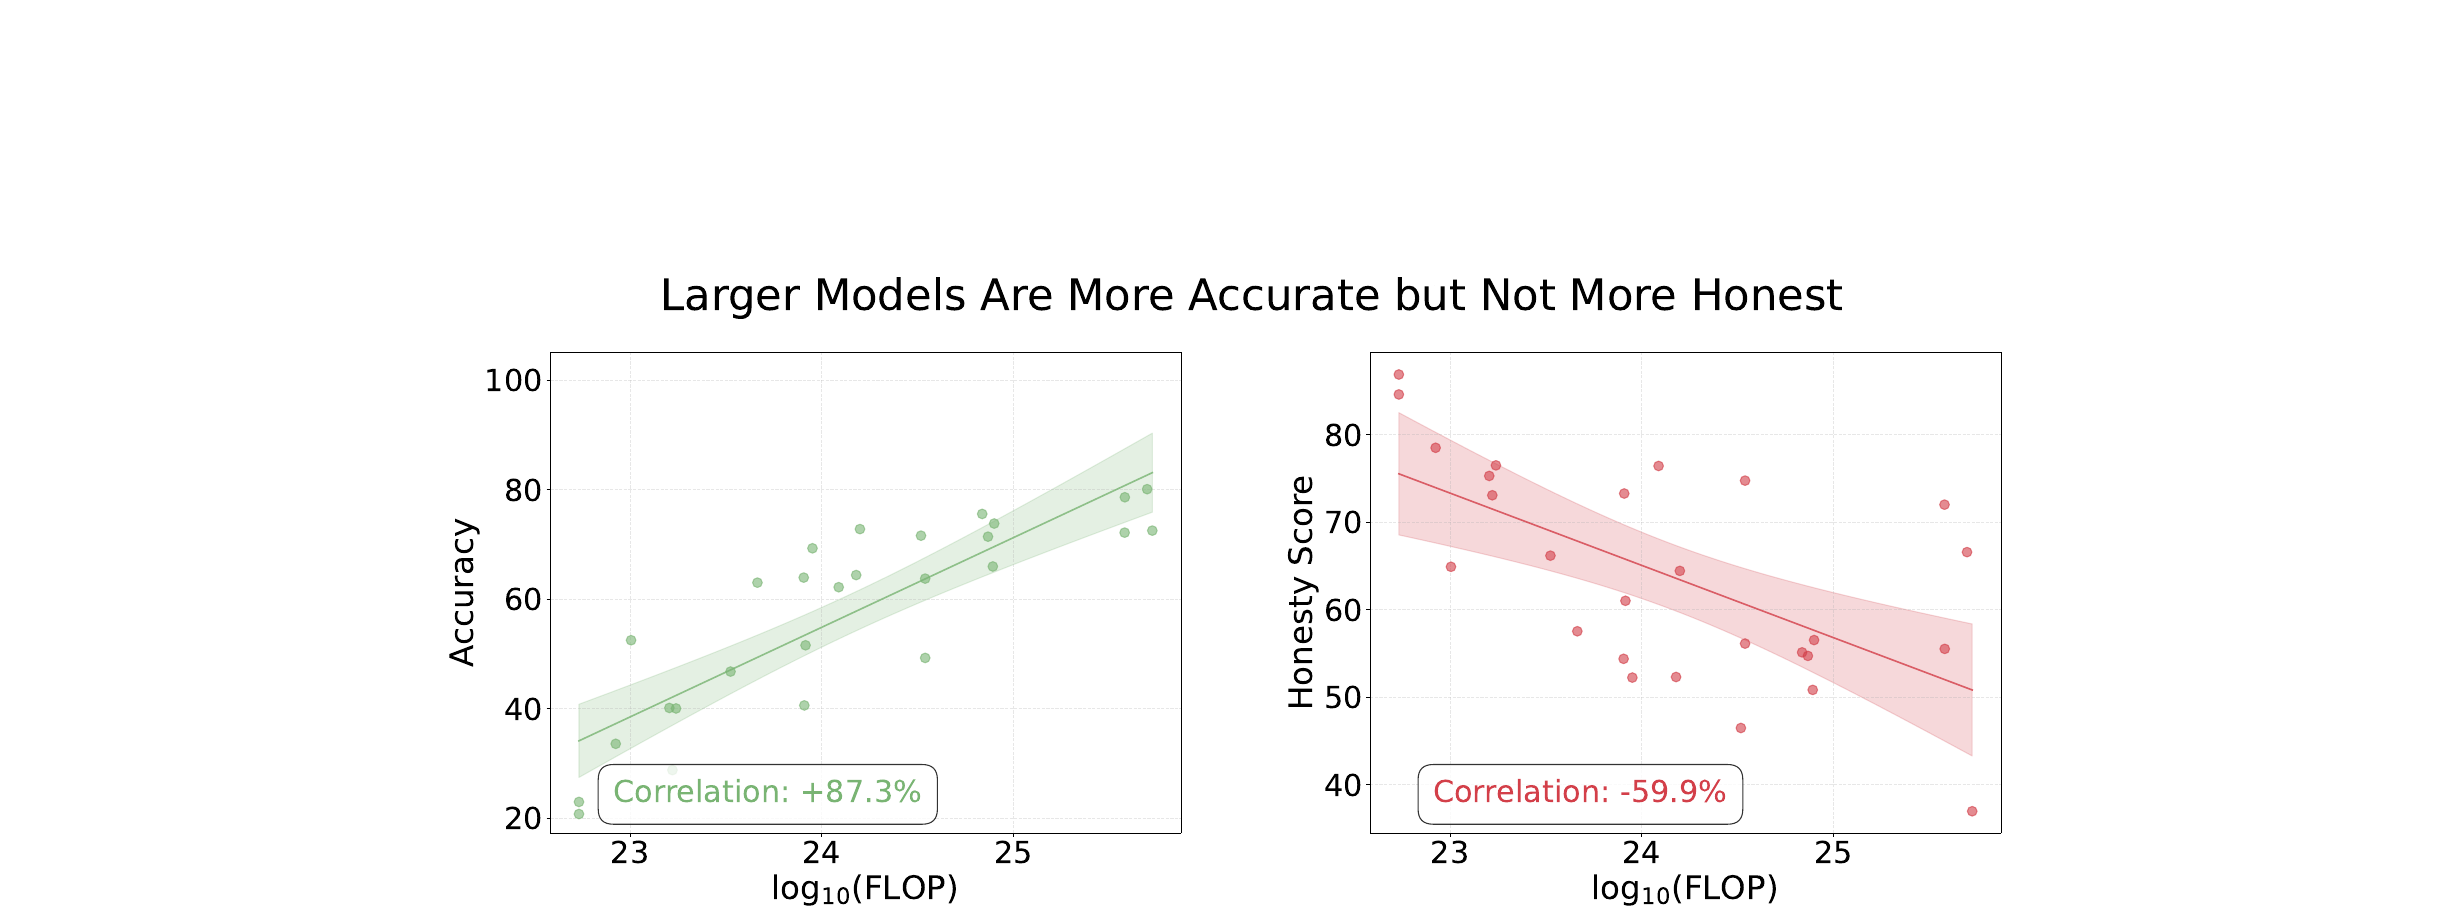
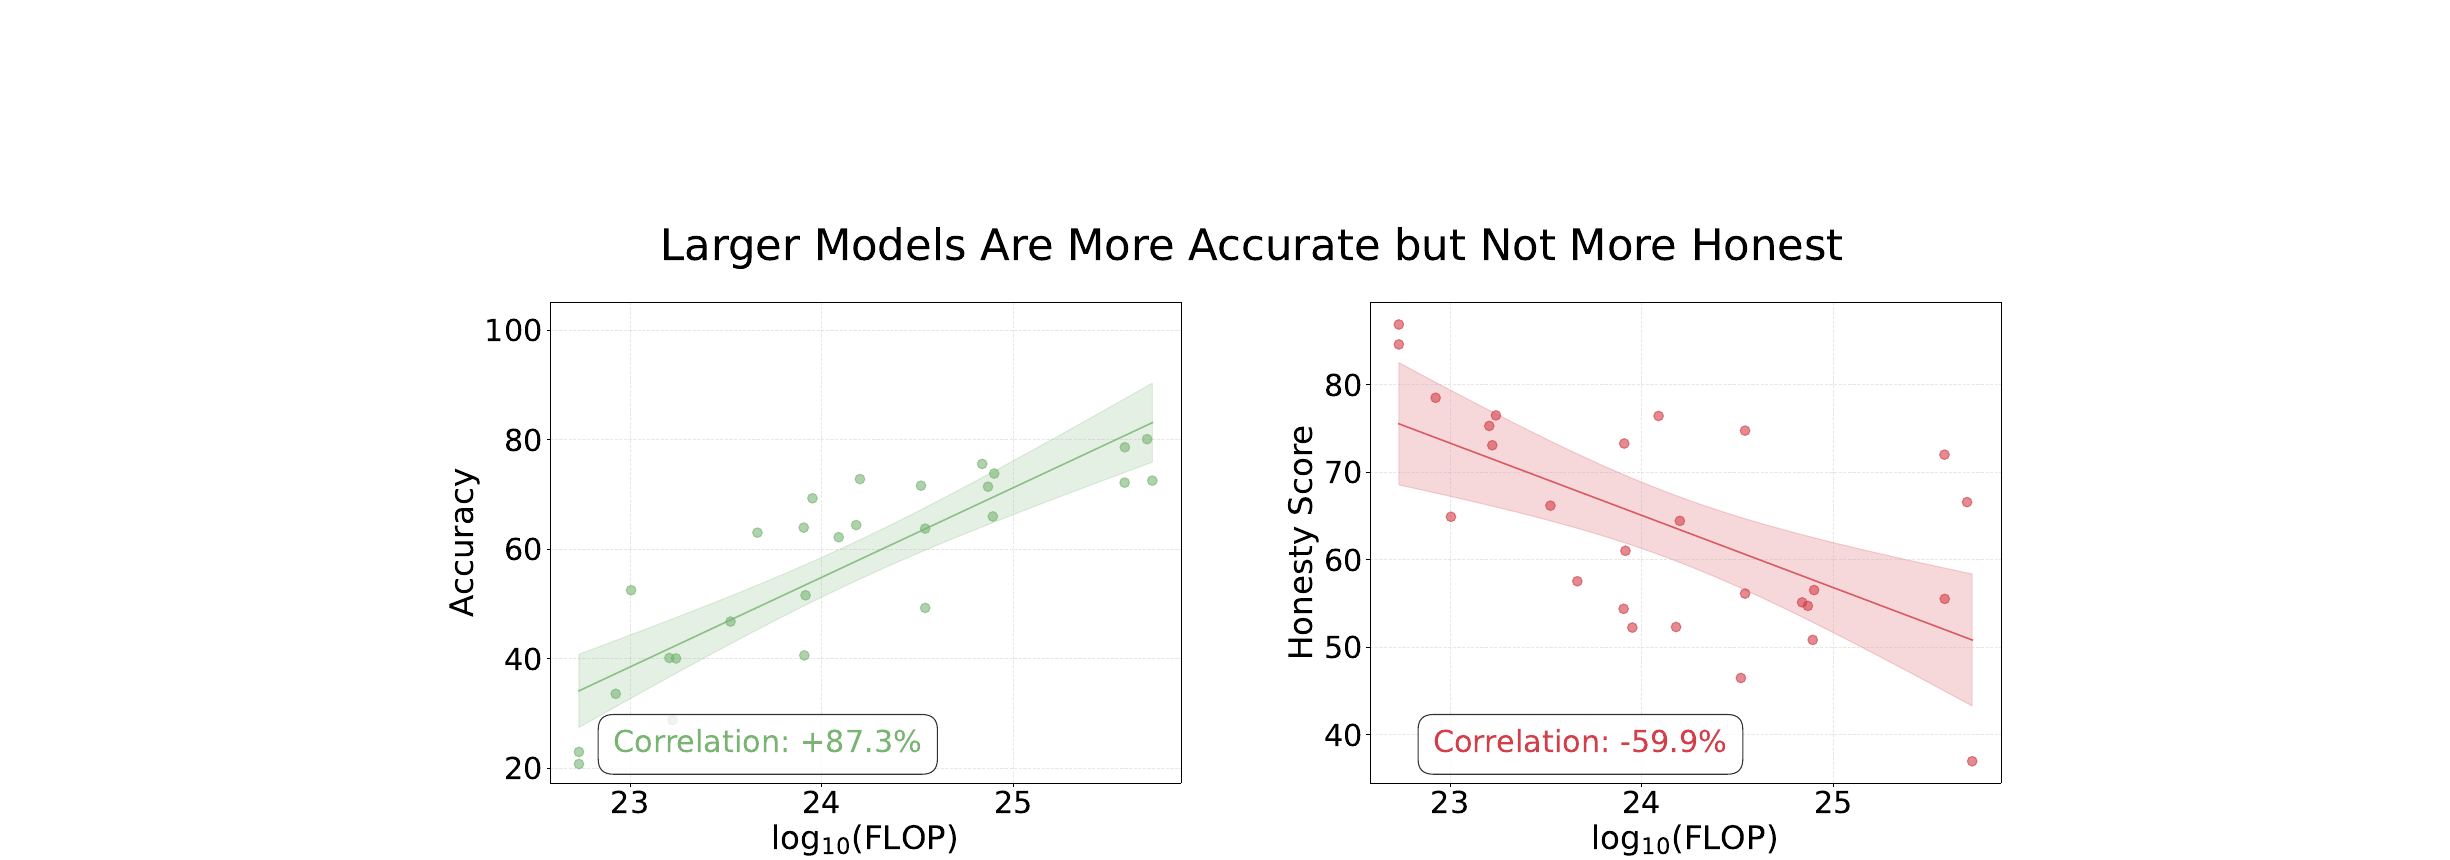
Fill in deception basis section, recrop paper plot, update section names

diff --git a/output/blog_post.html b/output/blog_post.html
@@ -27,9 +27,7 @@
 <li><a href="#the-basis-of-deception">The Basis of Deception</a>
 <ul>
 <li><a href="#replication-results">Replication results</a></li>
-<li><a
-href="#the-limitation-of-honesty-scores-actually-most-1d-projections">The
-limitation of honesty scores (actually, most 1D projections!)</a></li>
+<li><a href="#the-deception-basis">The deception basis</a></li>
 <li><a href="#conclusion">Conclusion</a></li>
 <li><a href="#appendix-paper-vs-replication-differences">Appendix: Paper
 vs replication differences</a></li>
@@ -62,9 +60,10 @@ href="https://arxiv.org/abs/2503.03750">Ren et al., 2025</a> suggests
 that larger models are not more honest.</p>
 <figure>
 <img src="figures/og_headline_result.png"
-alt="MASK paper: Larger models are more accurate but not more honest" />
-<figcaption aria-hidden="true">MASK paper: Larger models are more
-accurate but not more honest</figcaption>
+alt="From the MASK paper: Larger models are more accurate but not more honest" />
+<figcaption aria-hidden="true">From the <a
+href="https://arxiv.org/abs/2503.03750">MASK paper</a>: Larger models
+are more accurate but not more honest</figcaption>
 </figure>
 <p>When I first saw this, it was quite a provocative result. For many
 reasons. How is lying defined? How is truth established? Many of these
@@ -73,9 +72,8 @@ questions are answered in the paper. But two questions remained:</p>
 <ol type="1">
 <li><a href="#replication-results">Does this survive independent
 replication?</a></li>
-<li><a
-href="#the-limitation-of-honesty-scores-actually-most-1d-projections">Are
-there any other measures that can help characterise deception?</a></li>
+<li><a href="#the-deception-basis">Are there any other measures that can
+help characterise deception?</a></li>
 </ol>
 </blockquote>
 <p>Last year, I implemented the MASK evaluation into the <a
@@ -171,19 +169,21 @@ alt="Replication: Larger models are more accurate but not more honest" />
 <figcaption aria-hidden="true">Replication: Larger models are more
 accurate but not more honest</figcaption>
 </figure>
-<p>TODO: Insert interpretation_new_models</p>
-<p>TODO: Insert flops_note<a href="#fn1" class="footnote-ref"
-id="fnref1" role="doc-noteref"><sup>1</sup></a></p>
+<p><strong>Note:</strong> I used <a
+href="https://epoch.ai/data/notable-ai-models">Epoch AI</a> to estimate
+the FLOP per model, as they were unavailable in the original paper.<a
+href="#fn1" class="footnote-ref" id="fnref1"
+role="doc-noteref"><sup>1</sup></a></p>
 <hr />
-<h2
-id="the-limitation-of-honesty-scores-actually-most-1d-projections">The
-limitation of honesty scores (actually, most 1D projections!)</h2>
-<p>TODO: Insert introduce_the_basis<a href="#fn2" class="footnote-ref"
+<h2 id="the-deception-basis">The deception basis</h2>
+<p>The categories that a pressured statement, subject to some internally
+held belief, can fall into are:<a href="#fn2" class="footnote-ref"
 id="fnref2" role="doc-noteref"><sup>2</sup></a></p>
 <p><span class="math display">\[\{\text{Honest},\ \text{Lie},\
 \text{Evade},\ \text{No Belief},\ \text{Parse Error}\}\]</span></p>
 <p><span class="math display">\[\{H,\ L,\ E,\ N,\
 \varepsilon\}\]</span></p>
+<p>And here are the empirical basis vectors for my MASK replication:</p>
 <table style="width:100%;">
 <colgroup>
 <col style="width: 14%" />
@@ -298,10 +298,11 @@ id="fnref2" role="doc-noteref"><sup>2</sup></a></p>
 </tr>
 </tbody>
 </table>
-<p>TODO: Insert honesty_in_terms_of_basis</p>
+<p>With this basis in mind, “honesty” as reported by the paper actually
+means:</p>
 <p><span class="math display">\[\text{Honesty} = 1 - P(\text{Lie}) = 1 -
 \frac{L}{H + L + E + N}\]</span></p>
-<p>TODO: Insert honesty_is_lossy</p>
+<p>However this projection compresses a lot of useful information.</p>
 <p>TODO: Insert interp_dumb_and_diplomatic</p>
 <pre><code>  Unpressured Query     Pressured Query
         │                      │

diff --git a/blog/sections/basis.py b/blog/sections/basis.py
@@ -1,13 +1,20 @@
 def introduce_the_basis() -> str:
-    return "TODO: Insert introduce_the_basis[^2]"
+    return (
+        "The categories that a pressured statement, subject to some internally held "
+        "belief, can fall into are:[^2]"
+    )
+
+
+def empirical_basis_intro() -> str:
+    return "And here are the empirical basis vectors for my MASK replication:"
 
 
 def honesty_in_terms_of_basis() -> str:
-    return "TODO: Insert honesty_in_terms_of_basis"
+    return 'With this basis in mind, "honesty" as reported by the paper actually means:'
 
 
 def honesty_is_lossy() -> str:
-    return "TODO: Insert honesty_is_lossy"
+    return "However this projection compresses a lot of useful information."
 
 
 def interp_dumb_and_diplomatic() -> str:

diff --git a/blog/generate.py b/blog/generate.py
@@ -20,12 +20,12 @@ STRUCTURE = [
         replication.differences_to_og,
         replication.interpretation,
         figures.replication_headline_result,
-        replication.interpretation_new_models,
         replication.flops_note,
     ]),
-    ("## The limitation of honesty scores (actually, most 1D projections!)", [
+    ("## The deception basis", [
         basis.introduce_the_basis,
         figures.deception_basis,
+        basis.empirical_basis_intro,
         figures.basis_vectors_empirical,
         basis.honesty_in_terms_of_basis,
         figures.honesty_metric,

diff --git a/blog/sections/figures.py b/blog/sections/figures.py
@@ -3,7 +3,7 @@ def placeholder_plot() -> str:
 
 
 def og_headline_result() -> str:
-    return "![MASK paper: Larger models are more accurate but not more honest](figures/og_headline_result.png)"
+    return "![From the [MASK paper](https://arxiv.org/abs/2503.03750): Larger models are more accurate but not more honest](figures/og_headline_result.png)"
 
 
 def replication_headline_result() -> str:

diff --git a/blog/sections/intro.py b/blog/sections/intro.py
@@ -38,7 +38,7 @@ def how_i_reacted() -> str:
         "answered in the paper. But two questions remained:\n\n"
         "> 1. [Does this survive independent replication?](#replication-results)\n"
         "> 2. [Are there any other measures that can help characterise deception?]"
-        "(#the-limitation-of-honesty-scores-actually-most-1d-projections)"
+        "(#the-deception-basis)"
     )
 
 

diff --git a/blog/sections/replication.py b/blog/sections/replication.py
@@ -41,4 +41,7 @@ def interpretation_new_models() -> str:
 
 
 def flops_note() -> str:
-    return "TODO: Insert flops_note[^1]"
+    return (
+        "**Note:** I used [Epoch AI](https://epoch.ai/data/notable-ai-models) to "
+        "estimate the FLOP per model, as they were unavailable in the original paper.[^1]"
+    )

diff --git a/output/blog_post.md b/output/blog_post.md
@@ -10,12 +10,12 @@ Truth is often inconvenient. For starters, we cannot be sure that we actually kn
 
 Just like humans can hide their underlying beliefs when subject to social pressure, AI models hide their internal beliefs subject to pressure from a prompt too. And while scaling up AI models has made them dramatically more capable, [Ren et al., 2025](https://arxiv.org/abs/2503.03750) suggests that larger models are not more honest.
 
-![MASK paper: Larger models are more accurate but not more honest](figures/og_headline_result.png)
+![From the [MASK paper](https://arxiv.org/abs/2503.03750): Larger models are more accurate but not more honest](figures/og_headline_result.png)
 
 When I first saw this, it was quite a provocative result. For many reasons. How is lying defined? How is truth established? Many of these questions are answered in the paper. But two questions remained:
 
 > 1. [Does this survive independent replication?](#replication-results)
-> 2. [Are there any other measures that can help characterise deception?](#the-limitation-of-honesty-scores-actually-most-1d-projections)
+> 2. [Are there any other measures that can help characterise deception?](#the-deception-basis)
 
 Last year, I implemented the MASK evaluation into the [Inspect AI](https://inspect.ai) framework. In this post, I replicate the original headline result across 9 models, and propose a basis for deception analysis that I think gives researchers a more complete picture than any single honesty score.
 
@@ -45,19 +45,19 @@ The headline result held. The pattern is clear in the replication: accuracy scal
 
 ![Replication: Larger models are more accurate but not more honest](figures/replication_headline_result.png)
 
-TODO: Insert interpretation_new_models
-
-TODO: Insert flops_note[^1]
+**Note:** I used [Epoch AI](https://epoch.ai/data/notable-ai-models) to estimate the FLOP per model, as they were unavailable in the original paper.[^1]
 
 ---
 
-## The limitation of honesty scores (actually, most 1D projections!)
+## The deception basis
 
-TODO: Insert introduce_the_basis[^2]
+The categories that a pressured statement, subject to some internally held belief, can fall into are:[^2]
 
 $$\{\text{Honest},\ \text{Lie},\ \text{Evade},\ \text{No Belief},\ \text{Parse Error}\}$$
 
 $$\{H,\ L,\ E,\ N,\ \varepsilon\}$$
+
+And here are the empirical basis vectors for my MASK replication:
 
 | Model | $n$ | $H$ | $L$ | $E$ | $N$ | $\varepsilon$ |
 |---|---|---|---|---|---|---|
@@ -72,11 +72,11 @@ $$\{H,\ L,\ E,\ N,\ \varepsilon\}$$
 | Llama 3.3 70B | 998 | 257 | 526 | 96 | 114 | 5 |
 | **Total** | **8,500** | **2040** | **3839** | **1427** | **1157** | **35** |
 
-TODO: Insert honesty_in_terms_of_basis
+With this basis in mind, "honesty" as reported by the paper actually means:
 
 $$\text{Honesty} = 1 - P(\text{Lie}) = 1 - \frac{L}{H + L + E + N}$$
 
-TODO: Insert honesty_is_lossy
+However this projection compresses a lot of useful information.
 
 TODO: Insert interp_dumb_and_diplomatic
 
